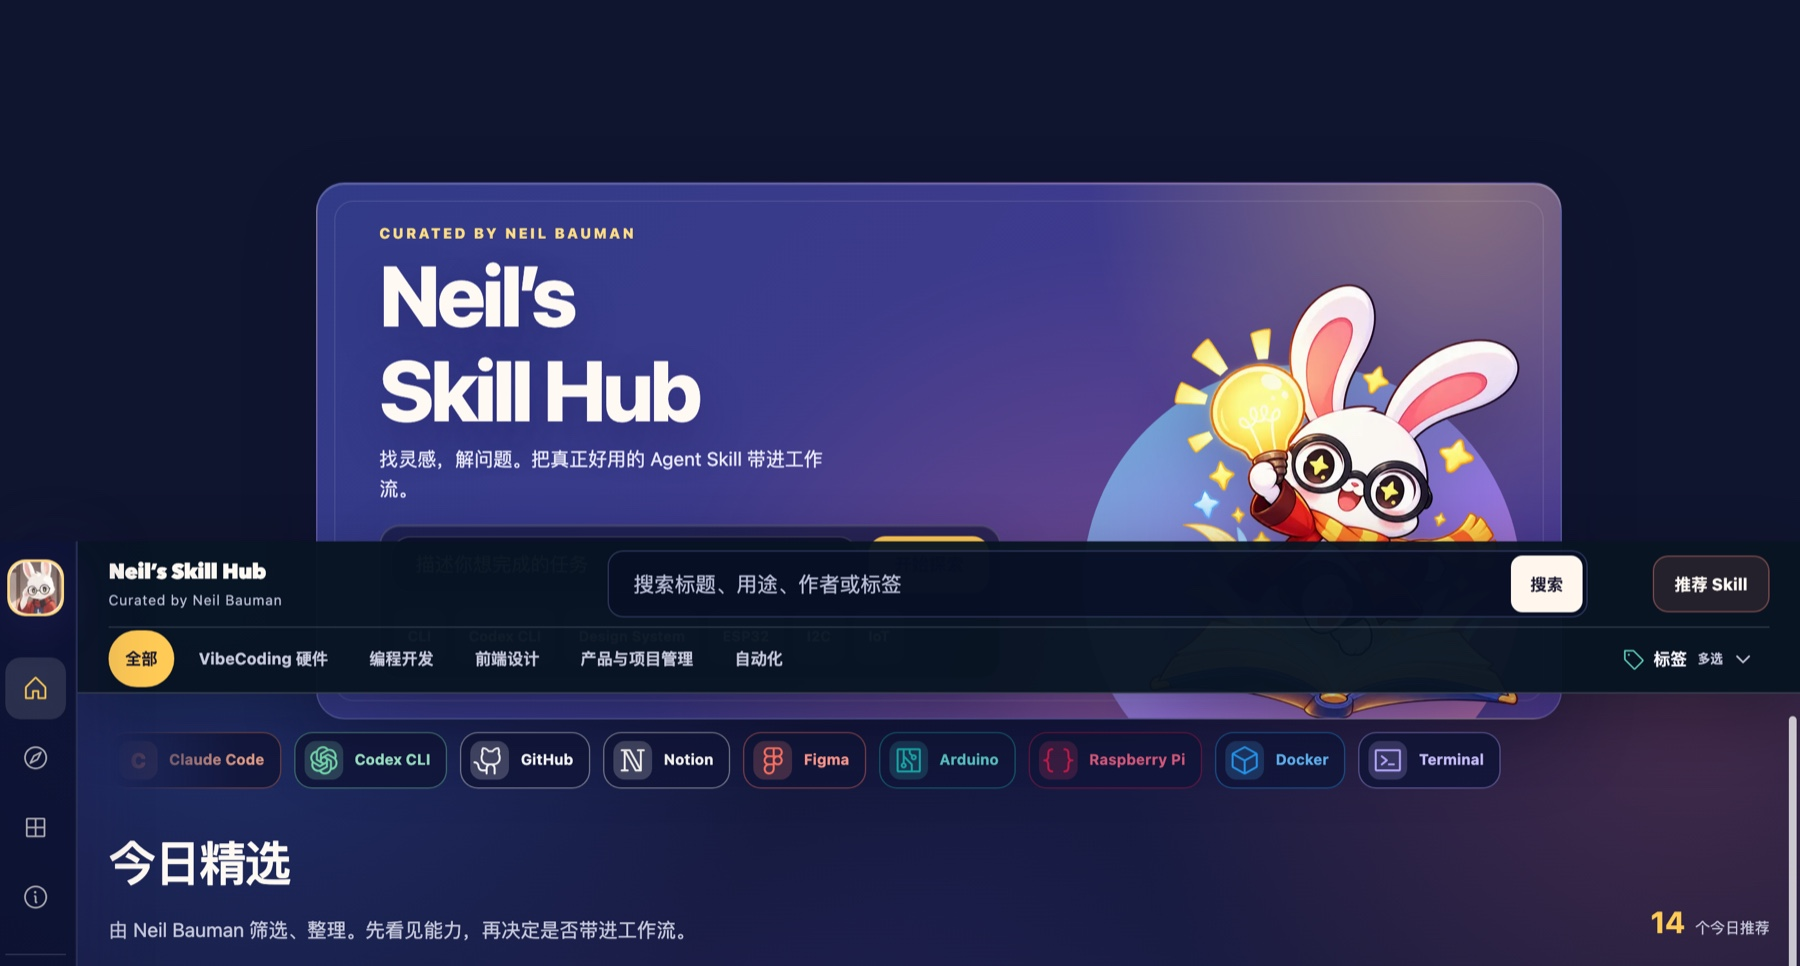
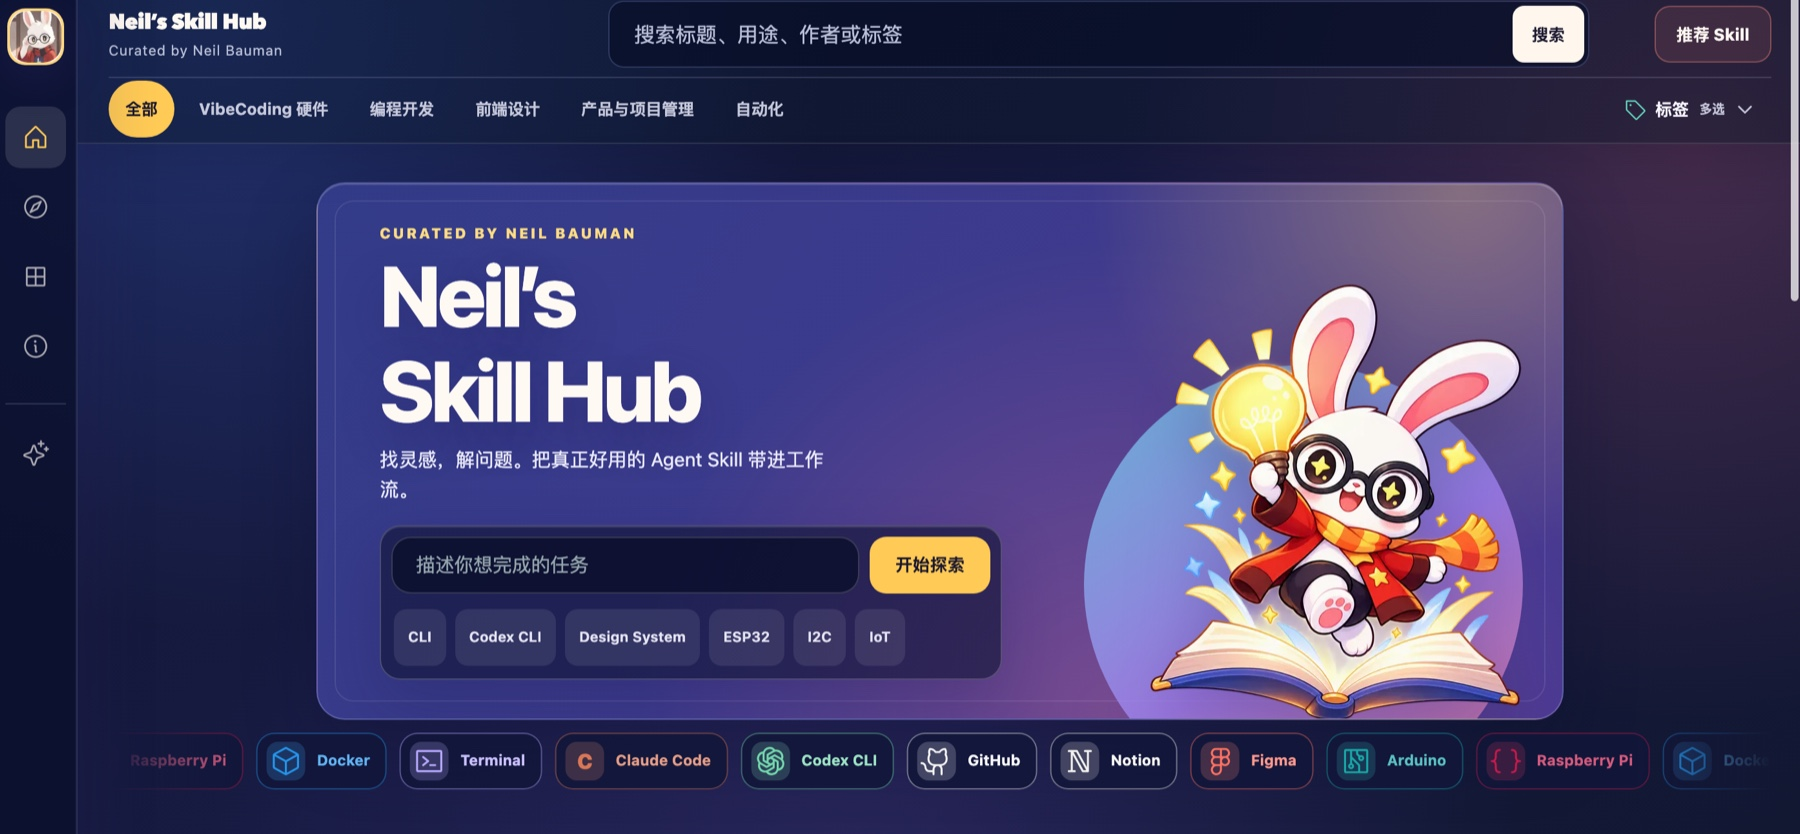
fix: replace Q5 Skill Hub screenshot

diff --git a/frontend/src/markdown.ts b/frontend/src/markdown.ts
@@ -72,7 +72,7 @@ export function renderMarkdown(source: string): string {
 
     const image = line.match(/^!\[([^\]]*)\]\((\/assets\/[^)\s]+)\)\s*$/);
     if (image) {
-      html.push(`<figure class="md-figure"><img src="${escapeHtml(image[2]!)}" loading="lazy" decoding="async" alt="${escapeHtml(image[1]!)}"></figure>`);
+      html.push(`<figure class="md-figure"><img src="${escapeHtml(image[2]!)}" loading="eager" decoding="async" alt="${escapeHtml(image[1]!)}"></figure>`);
       index += 1;
       continue;
     }

diff --git a/web/dist/index.html b/web/dist/index.html
@@ -9,7 +9,7 @@
       content="深蓝科技部 AI Agent 应用考核"
     />
     <title>深蓝科技部 AI Agent 应用考核</title>
-    <script type="module" crossorigin src="./assets/index-p8Id4bhs.js"></script>
+    <script type="module" crossorigin src="./assets/index-BHhE4DaI.js"></script>
     <link rel="stylesheet" crossorigin href="./assets/index-Bg-LKuDt.css">
   </head>
   <body>
